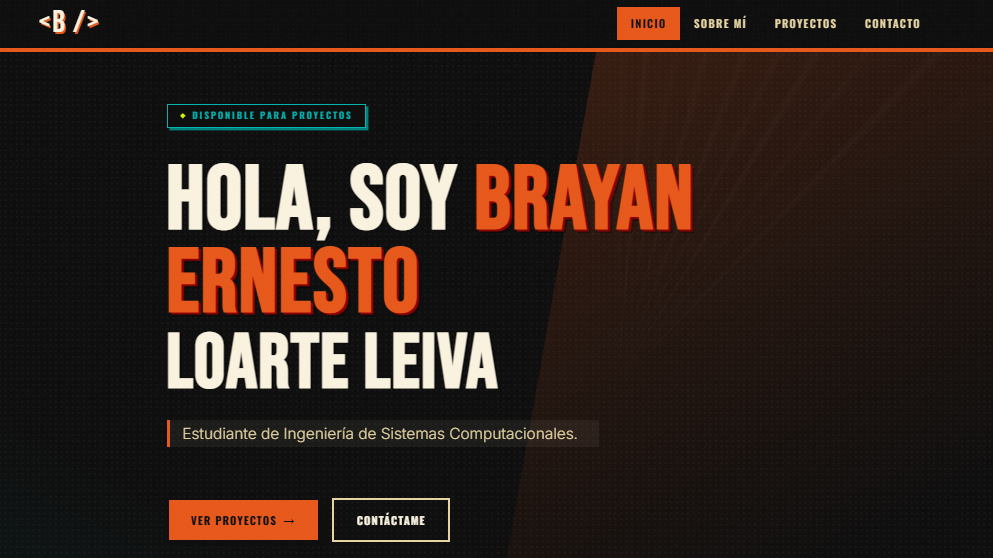
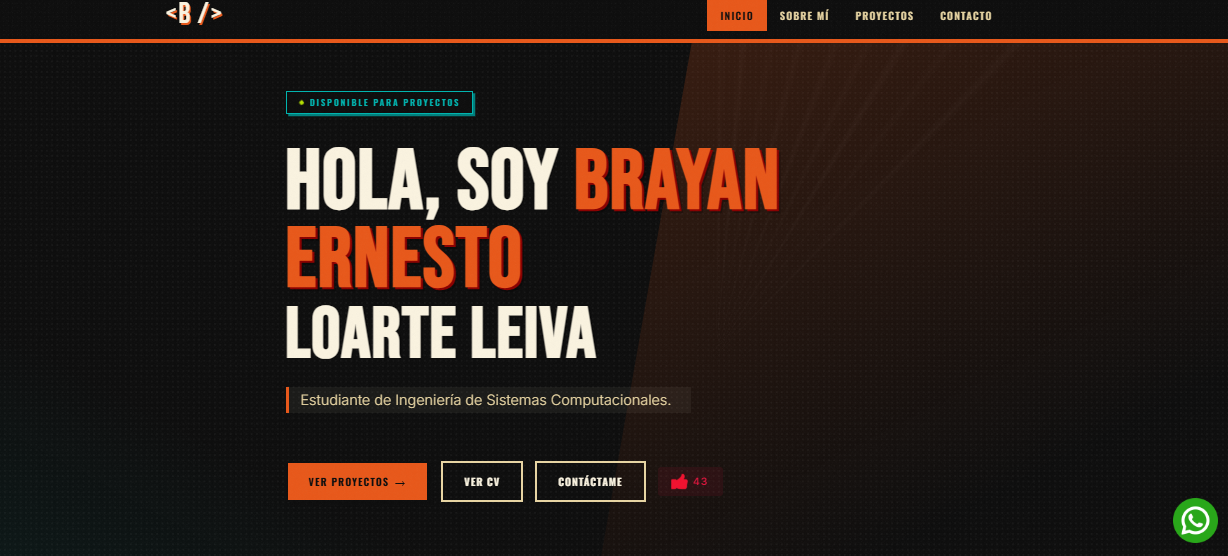
Elevado boton de whatsapp y agregada seguridad contra inspeccion de codigo

Changed region(s): [[0.0, 0.0, 1.0, 0.795], [0.1561, 0.8255, 0.5932, 0.9784], [0.9366, 0.8867, 0.999, 0.9784]]

diff --git a/views/proyectos.html b/views/proyectos.html
@@ -8,8 +8,7 @@
                 </div>
 
                 <p class="section-intro">
-                    Una selección de trabajos donde el código se encuentra con el diseño.
-                    Cada proyecto es una pieza única construida con dedicación.
+                    Desarrollo de soluciones tecnológicas modernas y escalables. Cada proyecto refleja un equilibrio entre código eficiente y un diseño visual cautivador.
                 </p>
 
                 <div class="projects-grid">
